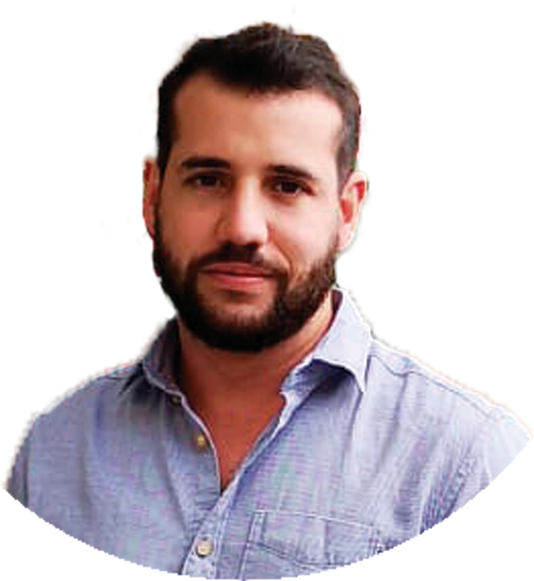
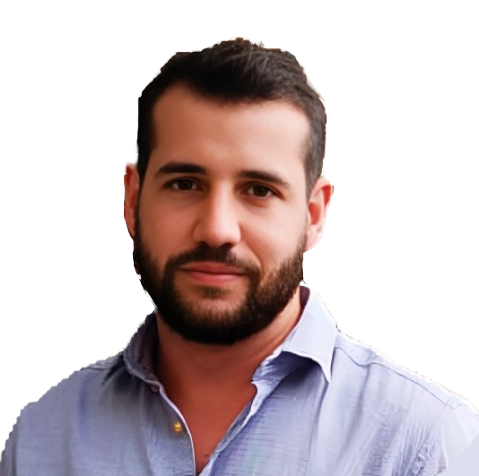
nigel's picture fixed

diff --git a/index.html b/index.html
@@ -2,7 +2,7 @@
 <html lang="en">
   <head>
     <meta charset="UTF-8" />
-    <link rel="icon" href="./Logo.svg" />
+    <link rel="icon" href="./src/assets/favicon-32x32.png" />
     <meta name="viewport" content="width=device-width, initial-scale=1.0" />
     <title>IronHub</title>
   </head>

diff --git a/src/pages/AboutPage/AboutPage.css b/src/pages/AboutPage/AboutPage.css
@@ -3,6 +3,7 @@
     flex-wrap: wrap;
     align-items: center;
     min-height: calc(100vh - 100px);
+    padding-bottom: 100px;
     .title-section{
         min-height: 200px;
         display: flex;

diff --git a/src/pages/ErrorPage/ErrorPage.css b/src/pages/ErrorPage/ErrorPage.css
@@ -5,6 +5,7 @@
   justify-content: center;
   align-items: center;
   gap: 10px;
+  min-height: calc(100vh - 100px);
 
   img {
     border: 1px solid white;
